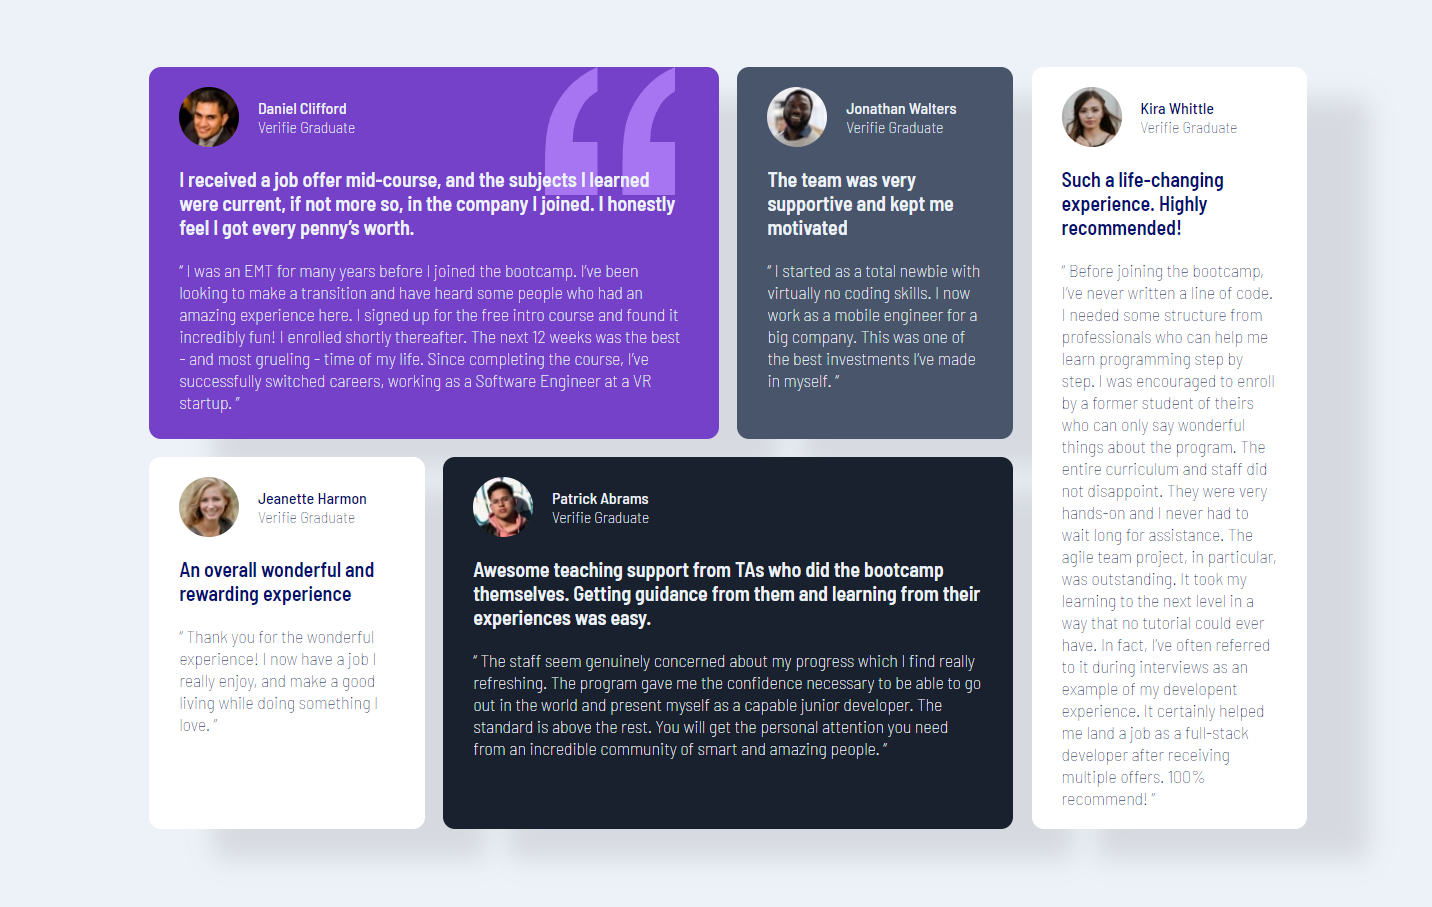
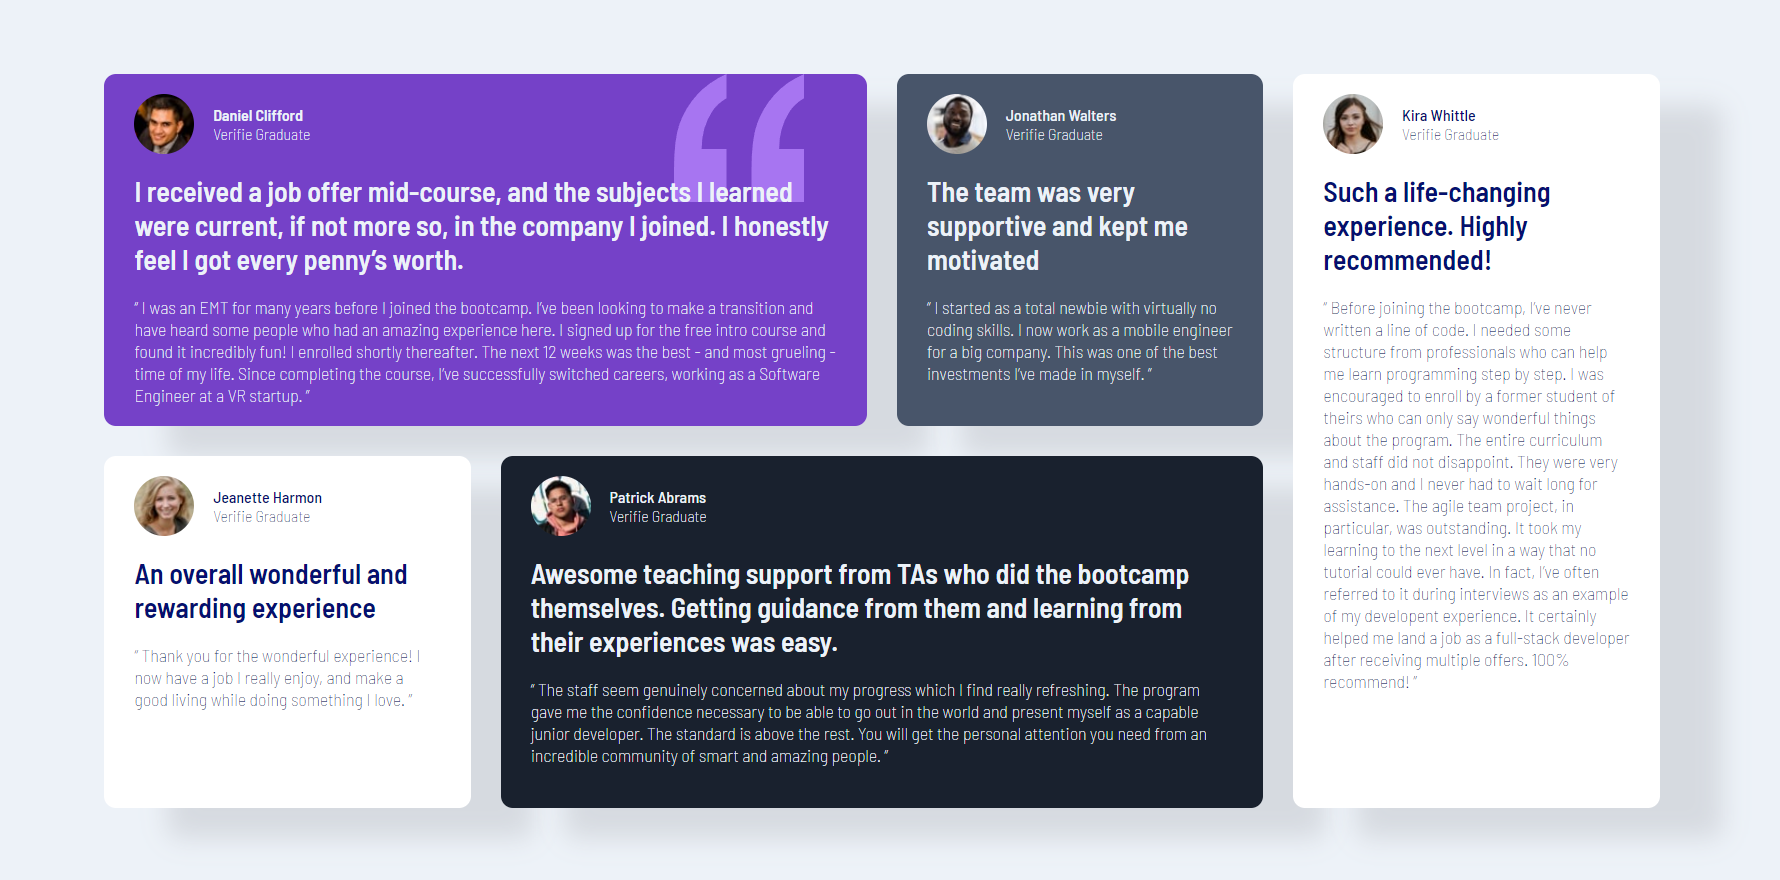
update html/Css

Changed region(s): [[0.0307, 0.0614, 0.9525, 0.9205]]

diff --git a/index.html b/index.html
@@ -16,7 +16,7 @@
         <div class="card__avatar">
           <img class="avatar--img" src="./images/image-daniel.jpg" alt="">
           <div class="card__name">
-            <p class="avatar-name">Daniel Clifford</p>
+            <h1 class="avatar-name">Daniel Clifford</h1>
             <p class="avatar-surname">Verifie Graduate</p>
           </div>
         </div>

diff --git a/style.css b/style.css
@@ -27,9 +27,9 @@ body{
 }
 .grid{
   margin: auto;
-  width: 67%;
+  width: 90%;
   display: grid;
-  gap: 15px;
+  gap: 1.5rem;
   grid-template-columns: repeat(4,1fr);
   grid-template-rows: repeat(2,1fr);
 }
@@ -102,6 +102,7 @@ body{
 
 .card__title{
   padding: 1rem 0;
+  font-size: 1.4rem;
 }
 .card__text{
   font-weight: 200;
